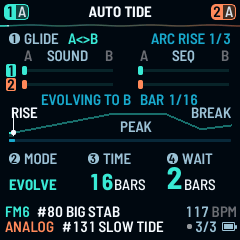
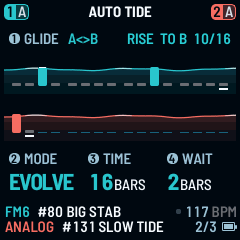
README: How it works guide with rc13 screens, AUTO TIDE glide GIF (#95)
* README: How it works (a block per function with rc13 screens), AUTO TIDE glide GIF from the emulator; guide facts fixed

* shoot_release.sh: no longer copies the README stills (deleted)

* README guide: the water AUTO TIDE page (new glide GIF to B and back from current jam11, new still, text), HOME's round, M27 EMPTY

* Guide: AUTO TIDE steps (height by pitch, moved steps in the part's lighter colour)

* Pictures: every README, site and social picture re-shot from current jam11 with music playing (water AUTO TIDE, banner and social rebuilt), landing page follows, unused DUELL images out

* Cover and social image: the TIDE wordmark and the texts only, no unit screenshot (owner)

---------

diff --git a/felucca-base/web/landing.html b/felucca-base/web/landing.html
@@ -63,15 +63,15 @@
       <p>The glide runs from A to B and back, never quite the same way twice. It is made for playing the FM-1 as a background: nothing has to be managed live, and a hand on the knob can take over at any time. The pattern can glide with the sound.</p>
       <div class="shots">
         <figure class="shot">
-          <img src="img/auto-tide-both-parts.png" width="240" height="240" alt="The AUTO TIDE page of the FM-1 with PART set to BOTH, both parts wandering to B: the sound and sequence faders of parts 1 and 2, 16 bars, wait 2 bars." loading="lazy">
-          <figcaption><b>AUTO TIDE</b>The glide's state on knob 1's line, with PART set to BOTH. MODE, TIME and WAIT are on knobs 2 to 4.</figcaption>
+          <img src="img/auto-tide.png" width="240" height="240" alt="The AUTO TIDE page of the FM-1 mid-glide: each part's steps stand in water that rises toward B, part 1 in sea glass above and part 2 in coral below; knob 1's line reads RISE TO B 10/16, MODE EVOLVE, TIME 16 bars, WAIT 2 bars." loading="lazy">
+          <figcaption><b>AUTO TIDE</b>Each part's steps stand in water: low at A, high at B. The glide's state is on knob 1's line; MODE, TIME and WAIT are on knobs 2 to 4.</figcaption>
         </figure>
         <figure class="shot">
-          <img src="img/morph-settings.png" width="240" height="240" alt="The TIDE SETTINGS page: style, target sound plus seq, vary bars every 4th, roll music, roll arp, roll pitch." loading="lazy">
-          <figcaption><b>TIDE SETTINGS</b>What the tide moves and how a new End B is made.</figcaption>
+          <img src="img/tide-settings.png" width="240" height="240" alt="The TIDE SETTINGS page: STYLE DUB, MODE EVOLVE, TARGET BOTH, ARC RISE, KNOBS AUTO, AMOUNT 15 percent." loading="lazy">
+          <figcaption><b>TIDE SETTINGS</b>The style, what the tide moves and how far a new End B goes.</figcaption>
         </figure>
         <figure class="shot">
-          <img src="img/morph-gliding.png" width="240" height="240" alt="The MORPH page with PART set to BOTH and the fader at 64: each part's sound drawn as live waves filling the page, part 1 above and part 2 below, both tagged; FLT, ECHO and LEN on one row, both patches in the footer." loading="lazy">
+          <img src="img/morph.png" width="240" height="240" alt="The MORPH page while music plays: each part's sound drawn as live waves, part 1 in sea glass above and part 2 in coral below; knob 1's line reads MORPH 95 TO A 6/16; the footer shows both patches." loading="lazy">
           <figcaption><b>MORPH</b>PART 1, PART 2 or BOTH: each part's real sound as live waves, like an oscilloscope: a held note stands still, a chord beats; at rest the lines lie flat.</figcaption>
         </figure>
       </div>

diff --git a/README.md b/README.md
@@ -1,4 +1,4 @@
-<p align="center"><img src="docs/tide-banner.png" alt="TIDE for FM-1: the TIDE wordmark on a night sea, next to the AUTO TIDE page of the unit with both parts gliding" width="960"></p>
+<p align="center"><img src="docs/tide-banner.png" alt="TIDE for FM-1: the TIDE wordmark on a night sea, with the line A morph that plays and evolves by itself. Firmware for the M-VAVE FM-1." width="960"></p>
 
 # TIDE for FM-1
 
@@ -12,22 +12,112 @@ TIDE for FM-1 by pssdrnk. Built on DUELL (OSCILL/R) and Felucca (Hügelton Instr
 
 - DUELL's MORPH glides a sound between two versions of itself, End A and End B, with one fader. **TIDE moves that fader for you**, in time with the music, each trip a little different, like a tide between two shores.
 - It is made for playing the FM-1 as a **background**: set a tide going, then play your drum machine, bass or sampler over it. A hand on the knob can take over at any time.
-- Eighteen factory multis, six STYLE presets (DUB, DEEP, MINIMAL, AMBIENT, PEAK, DRONE), a live view of the sound as waves.
+- 26 factory multis in genre order plus a blank one for playing live (M27 EMPTY), six STYLE presets (DUB, DEEP, MINIMAL, AMBIENT, PEAK, DRONE), a live view of the sound as waves.
 
-| AUTO TIDE | TIDE SETTINGS | MORPH, mid-glide |
-|:---:|:---:|:---:|
-| <img src="docs/tide/auto-tide-both-parts.png" width="260" alt="AUTO TIDE page with PART set to BOTH, mid-trip: the status line reads EVOLVING TO B BAR 1/16, the SOUND and SEQ faders of parts 1 and 2, TIME 16 bars, WAIT 2 bars"> | <img src="docs/tide/morph-settings.png" width="260" alt="TIDE SETTINGS page: STYLE DUB, MODE EVOLVE, TARGET BOTH, ARC RISE, KNOBS AUTO, AMOUNT 15%"> | <img src="docs/tide/morph-gliding.png" width="260" alt="MORPH page with PART set to BOTH, mid-trip: each part's live wave, part 1 above and part 2 below"> |
-| The glide, both parts, with their steps. | STYLE on top, then how the tide behaves. | The MORPH page follows the glide. |
-
-*Screens rendered from the firmware's own drawing code; try them live in the [web emulator](https://pssdrnk-cmyk.github.io/DUELL-TIDE/emu/).*
+<p align="center"><img src="docs/tide/auto-tide-glide.gif" width="360" alt="The AUTO TIDE page during a glide to B and back, recorded from the emulator: each part's steps stand in water that rises toward B and falls back to A, and knob 1's line reads RISE TO B, RISE WAITING, RISE TO A"></p>
+<p align="center"><em>AUTO TIDE during one glide to B and back, recorded from the firmware running in the emulator (TIME 2 bars so a round trip fits in a few seconds).</em></p>
 
 ## Start in 30 seconds
 
-1. Press **HOME** until **AUTO TIDE** shows (HOME's round is MORPH, TIDE SETTINGS, AUTO TIDE).
+1. Press **HOME** until **AUTO TIDE** shows (HOME's round is MORPH, AUTO TIDE, TIDE SETTINGS; HOME opens MORPH, so one more tap).
 2. Twist **knob 1** right (to B) and press **PLAY**. The glide starts on the next bar.
 3. Play over it. **STOP** pauses the glide; PLAY goes on from there.
 
 A fresh unit comes up ready: multi **M02 DUB CHORD**, AUTO TIDE on EVOLVE, both parts, 16 bars. The whole guide is [docs/TIDE_GUIDE.md](docs/TIDE_GUIDE.md).
+
+## How it works
+
+Each block says what a function does for you and which control to use. The pictures are the unit's own screen, rendered from the firmware (release candidate `rc13`). The details of every row are in the [TIDE guide](docs/TIDE_GUIDE.md).
+
+### AUTO TIDE: the glide
+
+<img align="right" src="docs/tide/auto-tide.png" width="240" alt="AUTO TIDE, the water page, mid-glide: part 1's steps in sea glass above and part 2's in coral below, each standing in water that is rising toward B; knob 1's line reads RISE TO B 10/16, and MODE EVOLVE, TIME 16 BARS and WAIT 2 BARS are under the water">
+
+AUTO TIDE moves the sound and the pattern from A to B and back, bar by bar, while the music plays. It is the page you live on, and it looks like a tide.
+- **What you see:** each part's steps stand in water, part 1 in sea glass above and part 2 in coral below. The water is **low at A and high at B** and rises and falls as the glide goes. While the tide waits at an end (WAIT) the water rolls slowly in moonlight; armed (waiting for PLAY) it holds still, dashed; stopped it holds still and dim. A take that is recording turns it red.
+- **Knob 1 (GLIDE):** twist right to go to B, left to go to A. It starts on the next bar. Twist two detents again while it runs and it stops where it is. Its line says where the trip is, for example `RISE  TO B 2/16`.
+- **PLAY and STOP:** the glide only moves while the transport plays. STOP pauses it; PLAY carries on from there.
+- **Knob 2 MODE:** EVOLVE walks your own sounds; TRAVEL hops through factory sounds of the same kind. **Knob 3 TIME:** bars per trip, 1 to 64. **Knob 4 WAIT:** bars to rest at each end, OFF to 16.
+- Hold **OCT-** and turn knob 1 to go back to your original sound and pattern.
+
+More: [AUTO TIDE in the guide](docs/TIDE_GUIDE.md#2-auto-tide-the-page-you-live-on).<br clear="right">
+
+### TIDE SETTINGS: set and forget
+
+<img align="right" src="docs/tide/tide-settings.png" width="240" alt="TIDE SETTINGS: STYLE DUB, MODE EVOLVE, TARGET BOTH, ARC RISE, KNOBS AUTO, AMOUNT 15 %, with OCT- OCT+ CHANGE THE VALUE under the list">
+
+How the tide behaves. **Knob 1** picks a row, **OCT+** and **OCT-** change its value (knobs 2 to 4 turn it too). A value that does nothing in the present setup is dim. The rows:
+- **STYLE:** one pick for the whole feel: DUB, DEEP, MINIMAL, AMBIENT, PEAK or DRONE. It sets MODE, TIME, WAIT and ARC and how the pattern varies. Changing any of those by hand makes it CUSTOM.
+- **MODE:** EVOLVE or TRAVEL, the same as knob 2 on AUTO TIDE.
+- **TARGET:** what the glide moves: the sound, the pattern (SEQ) or BOTH.
+- **ARC:** OFF, RISE or DROP. A long shape of 8-bar phrases: the tide rises, holds a peak, eases into a breakdown and recovers (40 to 64 bars).
+- **KNOBS:** which set knobs 2 to 4 play on the MORPH page: AUTO reads the first word of the multi's name (DUB, HSE, TECH, ACID, ELEC, AMB), or pick STD.
+- **AMOUNT:** how far a new random End B may go (0 to 100 %, start at 15 %).
+- Then **REC**, **ANSWER**, **ANSWER ON**, **PLAY MODE**, **XFADE** and **SPLIT**, covered below. Settings are saved over a power cycle.
+
+More: [TIDE SETTINGS in the guide](docs/TIDE_GUIDE.md#3-tide-settings-set-and-forget).<br clear="right">
+
+### MORPH: the hand page
+
+<img align="right" src="docs/tide/morph.png" width="240" alt="The MORPH page while music plays: each part's live sound as waves, part 1 in sea glass above and part 2 in coral below; knob 1's line reads MORPH 95 TO A 6/16 and the footer shows SND, FDBK and TIME">
+
+HOME's first page, for your hands. **Knob 1** is the MORPH fader from A to B; knobs 2 to 4 are the macros of the loaded multi's genre (a single sound: FILTER, RESONANCE, ECHO). Most of the page shows the sound itself as waves, like an oscilloscope: a held note stands still, a chord beats.
+- **Hold OCT+ and click knob 1:** End B becomes a new random roll.
+- **Hold OCT- and turn a knob:** knob 1 goes back to your original sound; knobs 2 to 4 go back to the value the sound had.
+- Move the fader by hand and TIDE holds only that part; 8 bars after you let go it takes the part back from where you left it. **Hold SAVE** saves the patch.
+
+More: [MORPH in the guide](docs/TIDE_GUIDE.md#1-morph-the-hand-page).<br clear="right">
+
+### Multis and parts
+
+<img align="right" src="docs/tide/multis.png" width="240" alt="The MULTIS page with M03 DUB MINIMAL picked: the list, and below it both parts' sounds with their first 16 steps">
+
+The FM-1 has two **parts**, each a sound with its own pattern. A **multi** holds both parts, their effects, arps, patterns, mode and morph settings. There are 26 factory multis, in genre order (dub, house, techno, acid, electro, ambient, and two drones), and a blank one after them, **M27 EMPTY**, for playing live. You can save over the factory multis.
+- **Load one:** short-press **SAVE** (it opens MULTIS in LAYER), turn **knob 1** to the multi, press **OCT+**. The preview shows both parts' sounds and their first 16 steps before you load.
+- **ALGORITHM** picks PART 1, both parts (the middle) or PART 2 on the HOME pages. The middle plays the mode set by the PLAY MODE row: **LAYER** (both parts on every key), **STEREO** or **DUEL** (part 1 left, part 2 right). **SPLIT** divides the keys between the parts; **XFADE** crossfades them by velocity in LAYER.
+
+More: [the idea](docs/TIDE_GUIDE.md#the-idea) and [QUICKSTART](docs/QUICKSTART.md).<br clear="right">
+
+### QUICK layers
+
+<img align="right" src="docs/tide/quick-arp.png" width="240" alt="The QUICK ARP layer while music plays: the arp's step line, then MODE SEQUENCE, RATE 1/16, GATE 76 %, OCT 1">
+
+Hold **EDIT**, **LFO**, **ENV**, **ARP** or **GLO** for a moment and the four knobs become performance controls for the selected part; the header says which layer (QUICK ARP, ...). The keys still play; let go and you are back on your page.
+- **EDIT:** cutoff, resonance, filter mode, release. **LFO:** each LFO's rate and cutoff amount. **ENV:** attack, release, the filter envelope's amount and decay.
+- **ARP:** mode, rate, gate, octaves.
+- **GLO:** level and pan of both parts, with the meters.
+- Hold **SEQ** for the sequence tools on the white keys (SWELL, RIPPLE and KEEP are below).
+
+More: [QUICKSTART](docs/QUICKSTART.md).<br clear="right">
+
+### Live assist: record a take, get an answer
+
+<img align="right" src="docs/tide/live-rec.png" width="240" alt="The MORPH page while a take records: the header says BASS LINE C MINOR (the answer), knob 1's line reads TAKE BAR 1/1, both parts' waves move and a red REC sits in the footer">
+
+Play a line, and TIDE gives the other part something that fits. Hold **SEQ** and tap **REC** to arm recording (a tap of REC disarms), press PLAY, and play: your notes go into the pattern, a red REC shows in the footer and knob 1's line counts the take (`TAKE  BAR 1/1`). When the take closes, the header names the answer (`BASS LINE  C MINOR`), the other part gets an **ANSWER** that fits inside the loop and does not rub against your notes:
+- **BASS LINE:** a bass line in the key, one chord a bar, an octave under you, in the rhythm of the multi's genre. **DOUBLE:** your notes a scale third above. **REPLY:** your first half is the call, the second half the answer. **ECHO:** your last note thrown four times, fading.
+- **ANSWER ON** OTHER writes it to the other part; OFF keeps the take only. **REC** ADD adds notes to a step that already has some; REPLACE takes their place. Both are rows of TIDE SETTINGS.
+- **Undo:** hold **OCT-** and turn **PRESETS**: back along the last two takes (left) or forward again (right).
+
+More: [ANSWER and REC in the guide](docs/TIDE_GUIDE.md#3-tide-settings-set-and-forget).<br clear="right">
+
+### SWELL and RIPPLE: make the answer again
+
+<img align="right" src="docs/tide/swell-next.png" width="240" alt="The sequence tools (SEQ held): CLEAR, REVERSE, SHIFT, SWELL picked, RIPPLE, TRANS, and G4 KEEP; the header says SWELL NEXT LOOP">
+
+Not happy with the answer? Hold **SEQ** and press **C4: SWELL** for a whole new answer, or **D4: RIPPLE** to move a few of its notes and keep its rhythm. It lands at the start of the next loop; the header says `SWELL  NEXT LOOP` until then (`NEXT PASS` while REC is armed), and a second press replaces the waiting one. Every press is one undo step: **OCT-** and a turn of **PRESETS**. **G4: KEEP** (also with SEQ held) makes what you hear the part's own, sound and pattern.<br clear="right">
+
+### The mixer
+
+<img align="right" src="docs/tide/mixer.png" width="240" alt="The MIXER while music plays: part 1 and part 2 side by side, each with live H, M and L bars, LEVEL 1 0.0 dB, LEVEL 2 -15.0 dB, PAN 1 and PAN 2">
+
+**GLO** opens the mixer (hold GLO and a knob sets levels and pans from any page). **Knob 1** is LEVEL 1, **knob 2** LEVEL 2, **knob 3** PAN 1, **knob 4** PAN 2. Hold GLO and press **OCT-** / **OCT+** to mute part 1 / part 2. Each part's card carries a three-bar meter: **L**ow (under about 250 Hz), **M**id and **H**igh (over about 2.5 kHz), each with a short peak mark, so you can see where a sound sits. Loading a sound never changes your levels; a multi remembers them.<br clear="right">
+
+### Saving
+
+<img align="right" src="docs/tide/save.png" width="240" alt="The SAVE confirm dialog: OVERWRITE BOTH PATCHES? #80 + #131, with OCT- NO and OCT+ YES">
+
+**Hold SAVE** on a page to save what it edits: a patch, a pattern or a multi; the dialog offers the picked slot over itself, **OCT+** says yes, **OCT-** no. A short press opens the SAVE page that fits where you are (PATTERNS from a sequencer page, otherwise MULTIS in LAYER and PATCHES in DUEL and STEREO); SELECT moves between PATCHES, PATTERNS, MULTIS and TOOLS. Saving needs the transport stopped. SAVE keeps the sound as you loaded it, not the one TRAVEL moved it to: to keep what you hear, use KEEP first. Every factory sound has its own slot and can be saved over (RESTORE brings the factory sound back); USER 1 to 4 start empty. [Back up](docs/RECOVERY.md) before you update.<br clear="right">
 
 ## Install
 

diff --git a/docs/TIDE_GUIDE.md b/docs/TIDE_GUIDE.md
@@ -10,7 +10,7 @@ Values marked *start* are suggestions for dub and house techno backgrounds, not 
 
 Every sound has two ends, **A** (your sound) and **B** (a variation of it), and a fader between them. TIDE moves that fader by itself, bar by bar, while the music plays, and also moves the pattern the same way. Over minutes the part evolves; nothing needs your hands. You can touch it whenever you like.
 
-HOME's round, one tap of **HOME** each: **MORPH → TIDE SETTINGS → AUTO TIDE**. **ALGORITHM** picks PART 1, both parts or PART 2 on all of them.
+HOME's round, one tap of **HOME** each: **MORPH → AUTO TIDE → TIDE SETTINGS** (HOME opens MORPH). **ALGORITHM** picks PART 1, both parts or PART 2 on all of them.
 
 **Header and footer.** Each HOME page is titled by its name (MORPH, TIDE SETTINGS, AUTO TIDE). A part's capsule shows its number and its letter, `1 A`, with no voices count. The tempo is on the footer's first line, `117 BPM`, right-aligned above the page number and the battery; the second line holds part 2's name, whole.
 
@@ -65,23 +65,19 @@ These are the sound's own settings: they record into the pattern with REC armed,
 
 ## 2. AUTO TIDE (the page you live on)
 
-The screen shows:
+The page is the water page: it always shows both parts, part 1 above part 2, and each part's steps stand in water.
 
-- the **SOUND** and **SEQ** faders with the glide's path
-- the 16 steps as they play
-- a status line
+- the water is **low at A and high at B**: it rises toward B as the glide goes and falls back toward A
+- the surface is a gentle swell with three flat tones, darker lower down; in WAIT (slack water) it rolls at half the pace in moonlight; armed it holds still and dashed, stopped still and dim, and a take is red
+- a step is a bar standing in the water, 6 to 32 px tall by its pitch
+- the status is on knob 1's line, for example `RISE  TO B 2/16`
 
-The page always shows both parts:
-
-- the faders sit in two columns, **SOUND** and **SEQ**, a row per part
-- the steps in two rows
-
-The part the knobs act on (the selected part) is drawn in full colour with its number in a filled pill and a small bar beside its steps; the other part is dimmed.
+The page has no SOUND / SEQ rails, part numbers, live lines, ARC line or loop bar cells. The part the knobs act on is drawn in full colour; the other part is dimmed.
 
 In the steps:
 
-- a hit is a bar (a chord taller)
-- a varied hit is in the accent colour
+- a hit is a bar standing in the water, taller the higher its pitch (a chord: its top note)
+- a step the variation moved or added is drawn in its own part's colour, lighter
 - a hit the variation drops is a dim outline
 - a tie is a short bar
 - a chance step is striped until it has rolled, then solid if it sounded or an outline if it did not
@@ -104,7 +100,7 @@ The glide only moves while the transport plays. **STOP** pauses it; **PLAY** car
 
 STYLE DUB, DEEP, MINIMAL and DRONE use EVOLVE; AMBIENT and PEAK use TRAVEL. A saved setup with an old MODE of ONCE, LOOP or DRIFT opens as EVOLVE, and WANDER as EVOLVE too; JOURNEY opens as TRAVEL. On the AUTO TIDE page the top line reads EVOLVING TO B or TRAVEL TO B; ARC's hint reads NEEDS EVOLVE, and "DROP NEEDS EVOLVE/TRAVEL" when it cannot act.
 
-**The top line, in full.** `EVOLVING TO B   BAR 3/16` (with an ARC running, its words sit at the top right, for example `ARC RISE 1/3`, and the ARC's shape is drawn under the faders: RISE, PEAK, BREAK); `TRAVEL TO B` in TRAVEL; `WAITING  1/2` while the trip is held; `GLIDE ON THE NEXT BAR` or `GLIDE STARTS WITH PLAY` before the first trip; `PAUSED: PLAY GOES ON`; `HAND  BACK IN n BARS` after your hand on the fader. On the MORPH page, knob 1's line shows the trip in short: `TO B 1/16` (the fader's number, then the bar, with no mode word).
+**The status line, in full.** `EVOLVING TO B   BAR 3/16` (with an ARC running, knob 1's line names its phase first, for example `RISE  TO B 2/16`; the arc runs without a picture of its own: its phase is the word on knob 1's line); `TRAVEL TO B` in TRAVEL; `WAITING  1/2` while the trip is held; `GLIDE ON THE NEXT BAR` or `GLIDE STARTS WITH PLAY` before the first trip; `PAUSED: PLAY GOES ON`; `HAND  BACK IN n BARS` after your hand on the fader. On the MORPH page, knob 1's line shows the trip in short: `TO B 1/16` (the fader's number, then the bar, with no mode word).
 
 **COLR LFO.** GLO's page 6 of 13 is COLR LFO, one knob (COLOR LFO, 0 to 15): a slow 0.25 Hz wave that swings the delay's colour, so the repeats breathe. 0 is off; DUB BASIC uses 5, DUB CHORD 2, and a multi stores the value.
 
@@ -114,7 +110,7 @@ Where two very different sounds cross, a short filter dip hides the change (the 
 
 ## 3. TIDE SETTINGS (set and forget)
 
-Ten rows: STYLE, MODE, TARGET, ARC, KNOBS and AMOUNT for the tide, then REC, PLAY MODE, XFADE and SPLIT.
+Twelve rows: STYLE, MODE, TARGET, ARC, KNOBS and AMOUNT for the tide, then REC, ANSWER, ANSWER ON, PLAY MODE, XFADE and SPLIT.
 - K1 picks the row.
 - **OCT+** the next value, **OCT-** the one before.
 - Knobs 2 to 4 turn it too, one step a click.

diff --git a/docs/QUICKSTART.md b/docs/QUICKSTART.md
@@ -110,7 +110,7 @@ It works in STEREO and LAYER, and in DUEL its card is not shown.
   - MIDI program change n loads slot n (bank 2: the places from #129, program 0 is #129 and program 42 is #171).
   - Saving needs the transport stopped.
 - **PATTERNS**: 32 named, overwritable step patterns (P01 to P32). With TIDE P29 to P32 are USER slots (empty until saved); the default patterns they stand in for stay listed after them, read-only. The picked entry is opened with a preview of its 16 steps (or NO SEQUENCE). The page always opens with LOAD picked: knob 1 to the pattern, OCT+ loads it (knob 3 picks SAVE instead). **To save a pattern**, hold SAVE on the PATTERNS page: the picked slot is offered over itself ("SAVE OVER ... ?"), OCT+ writes it and OCT- cancels. Saving does not need STOP: the pattern is kept at once, and it goes to flash when nothing plays.
-- **MULTIS**: 16 slots that hold both parts, effects, arps, patterns, mode and morph settings. The page always opens with LOAD picked.
+- **MULTIS**: 27 slots (M01 to M26, and M27 EMPTY, a blank template) that hold both parts, effects, arps, patterns, mode and morph settings. The page always opens with LOAD picked.
 
   - **Factory scenes (M01 to M16):** all music, a curated programme with a genre each. In genre order: dub (M01 to M03), house (M04 to M08), tech (M09 to M13: Detroit, soul, minimal, hypnotic, cinematic) and acid (M14 to M16). All sixteen are free to overwrite. The former STRESS TEST is a test scene only.
   - **TIDE built-in scenes (M17 to M26):** with TIDE the list goes on with acid (M17 ACID TWO 303, M18 ACID LINES), electro (M19 ELEC ROBOT, M20 ELEC DEEPSEA, M21 ELEC WARPED), ambient (M22 AMB TECHNO, M23 AMB BERLIN, M24 AMB LOOPS) and two drones built into the firmware, M25 AMB DUNEHORN and M26 AMB GROWL (a deep growling drone). They load and play like the others. TIDE plays the two drones as STYLE DRONE (hold a chord around C3, PLAY with AUTO TIDE on). Since b10 every slot M01 to M26 can be saved over, renamed and erased like the others; ERASE brings the built-in multi back. The drones play as STYLE DRONE only while the slot still holds the built-in drone.
